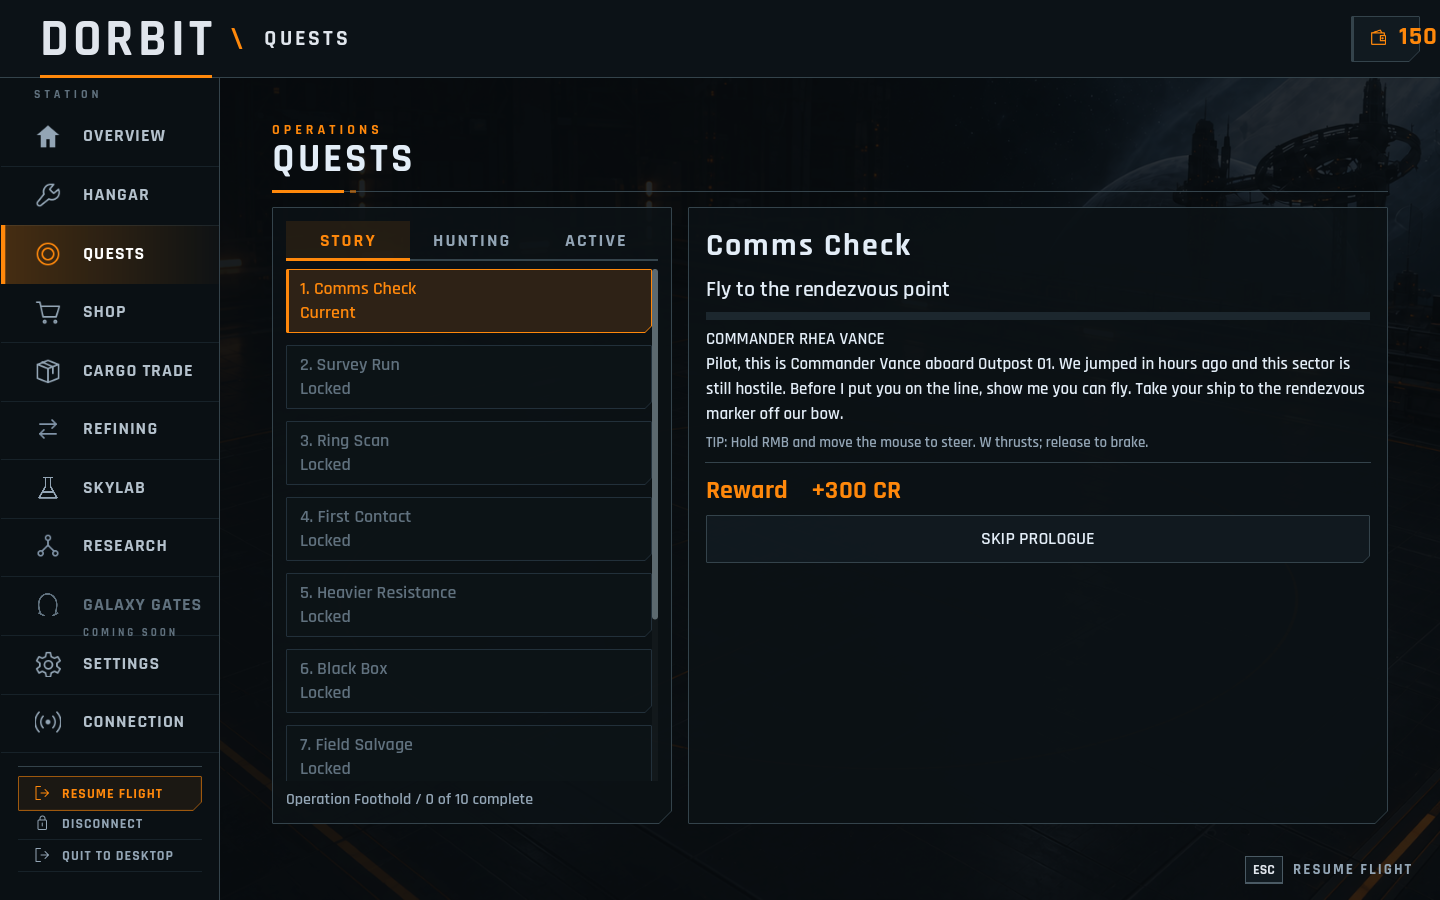
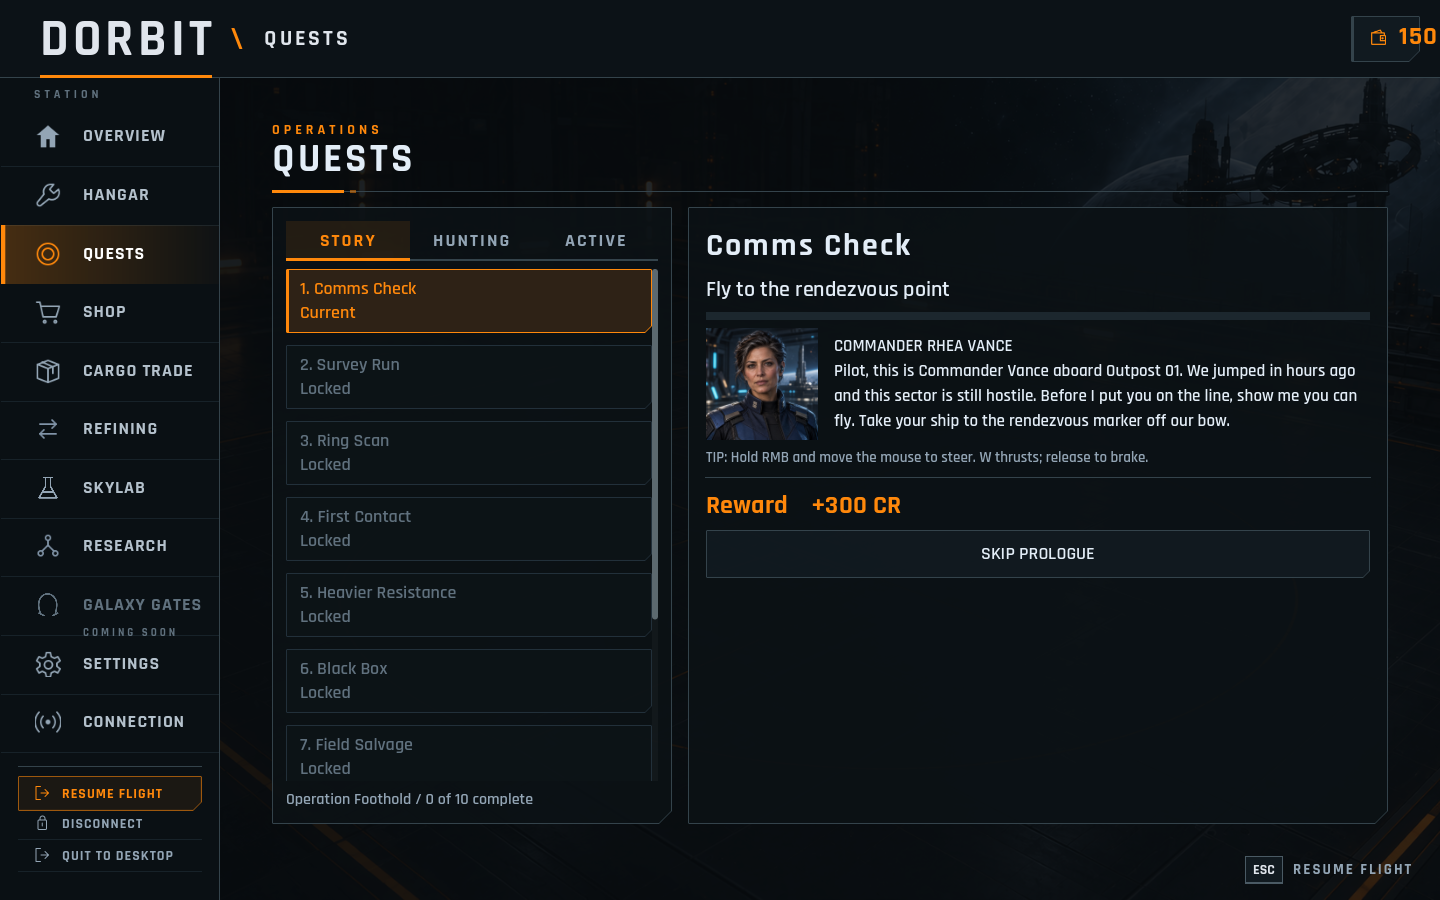
docs: note the portraits in story transmissions

Changed region(s): [[0.4688, 0.3422, 0.9375, 0.5911], [0.6875, 0.5911, 0.7812, 0.6222]]

diff --git a/README.md b/README.md
@@ -552,7 +552,7 @@ Credits survive disconnects and server restarts. Ship position, health, kills an
 
 ### Story prologue: Operation Foothold
 
-Every pilot, including existing ones, starts a personal ten-step prologue that teaches the game through Outpost 01's first operations. Commander Vance, Chief Engineer Brell and Dr. Sato brief each step in an incoming-transmission box below the flight card, which shows the current step, objective and a hint using your bindings. Positional steps show a holographic objective in space: waypoints and the recorder use a camera-facing gate that fades as you fly through it, scans use a gridded field that fills as the scan progresses, and every site has a tall locator beam. A short burst marks each completed site. Each step also opens a **Controls** pop-up below the destination card with two or three key caps for that step, such as steering and thrust, map and autopilot, targeting and lasers, rockets, or the station shortcuts. Rows tick off as you press them, and the pop-up closes shortly after you have tried each one. Move or hide it like any other panel in the HUD editor (Ctrl + Alt). Each site is also a selectable contact on the sector map, so **M** and **P** fly you there.
+Every pilot, including existing ones, starts a personal ten-step prologue that teaches the game through Outpost 01's first operations. Commander Vance, Chief Engineer Brell and Dr. Sato brief each step in an incoming-transmission box below the flight card, with each speaker's portrait beside their lines, which shows the current step, objective and a hint using your bindings. Positional steps show a holographic objective in space: waypoints and the recorder use a camera-facing gate that fades as you fly through it, scans use a gridded field that fills as the scan progresses, and every site has a tall locator beam. A short burst marks each completed site. Each step also opens a **Controls** pop-up below the destination card with two or three key caps for that step, such as steering and thrust, map and autopilot, targeting and lasers, rockets, or the station shortcuts. Rows tick off as you press them, and the pop-up closes shortly after you have tried each one. Move or hide it like any other panel in the HUD editor (Ctrl + Alt). Each site is also a selectable contact on the sector map, so **M** and **P** fly you there.
 
 | Step | Objective | Reward |
 | --- | --- | --- |

diff --git a/art/characters/README.md b/art/characters/README.md
@@ -2,7 +2,7 @@
 
 Generated with the built-in image generation tool for the three story contacts introduced in [PR #118](https://github.com/Timerk/Dorbit/pull/118).
 
-These are proposed visual designs. Roles and names come from `scripts/story.gd`; age, appearance, clothing and facial details are art direction proposed for this set rather than established story facts. The images are review assets outside Godot's runtime imports; this change does not add portraits to the HUD.
+These are proposed visual designs. Roles and names come from `scripts/story.gd`; age, appearance, clothing and facial details are art direction proposed for this set rather than established story facts. These originals stay outside Godot's runtime imports. Downscaled runtime copies in [assets/ui/portraits](../../assets/ui/portraits/README.md) appear in the flight transmission box and the Quests Story tab.
 
 | Character | Portrait |
 | --- | --- |
